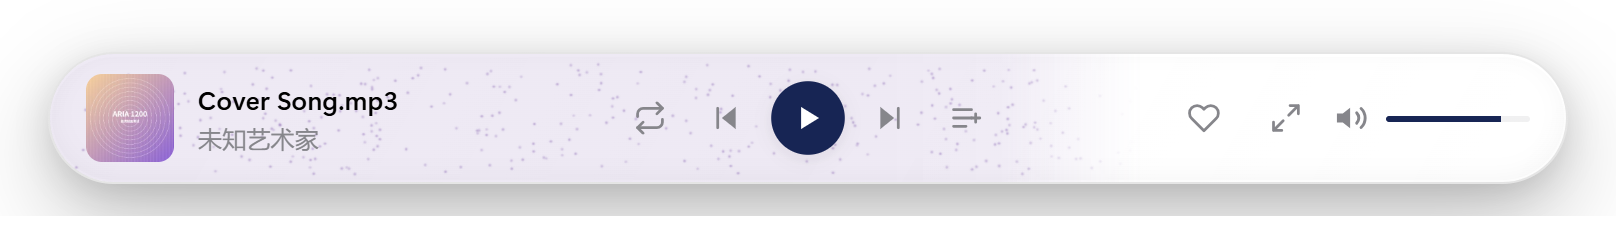
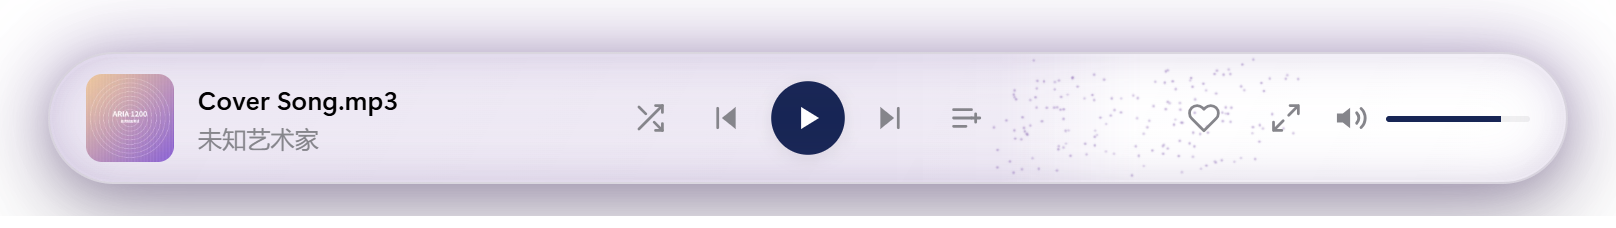
feat: 空白处可点可拖 + 光尘收成播放头一团 + 拖拽整条发光（光标改抓手）

Changed region(s): [[0.0309, 0.1228, 0.9592, 0.3684], [0.3713, 0.4605, 0.4332, 0.5833], [0.9592, 0.307, 0.9901, 0.3684]]

diff --git a/src/components/PlayerBar.vue b/src/components/PlayerBar.vue
@@ -1,5 +1,5 @@
 <script setup lang="ts">
-import { computed, nextTick, onMounted, ref, watch } from 'vue'
+import { computed, nextTick, onBeforeUnmount, onMounted, ref, watch } from 'vue'
 import AppIcon from './AppIcon.vue'
 import CoverImage from './CoverImage.vue'
 import ProgressSlider from './ProgressSlider.vue'
@@ -136,6 +136,15 @@ const localStyle = ref<PlayerStyle>(settings.playerStyle)
 const barEl = ref<HTMLElement | null>(null)
 let morphing = false
 
+/* 光尘团挂在播放头位置（--cp-x 是 px），所以需要真实内宽：
+   inset:0 的视觉层贴在边框内侧，内宽 = 页脚宽度 - 左右各 1px 边框 */
+const barWidth = ref(758)
+let barRO: ResizeObserver | null = null
+function measureBar() {
+  const w = (barEl.value?.getBoundingClientRect().width ?? 0) - 2
+  if (w > 0) barWidth.value = w
+}
+
 watch(
   () => settings.playerStyle,
   async (nv) => {
@@ -216,13 +225,26 @@ onMounted(() => {
     )
     .finished.catch(() => {})
 
+  // 光尘团要用真实内宽算播放头 px（--cp-x），窗口缩放与形态切换都要跟上
+  measureBar()
+  if (typeof ResizeObserver !== 'undefined' && barEl.value) {
+    barRO = new ResizeObserver(measureBar)
+    barRO.observe(barEl.value)
+  }
+  window.addEventListener('resize', measureBar)
 })
 
-/* ---------- 胶囊进度「封面色氛围光 + 光尘」：点击/拖拽 seek ----------
+onBeforeUnmount(() => {
+  barRO?.disconnect()
+  barRO = null
+  window.removeEventListener('resize', measureBar)
+})
+
+/* ---------- 胶囊进度「封面色氛围光 + 播放头光尘」：点击/拖拽 seek ----------
    已播区间 = 一层封面取色的氛围光（.pt-wash）＋ 一层极细的白色光尘
-   （.pt-dust × DUST_LAYERS，每层用一条 box-shadow 画出一整片散点，
-   480 颗只占 8 个合成图层）。两者共用一条 mask 收边（--cp-p 驱动），
-   悬停/拖拽只做 seek，不再有光带、光晕或换歌光扫。
+   （.pt-dust × DUST_LAYERS，每层用一条 box-shadow 画出一整片散点）。
+   氛围光被 --cp-p 的 mask 收在已播区间；光尘只在拖拽时出现，
+   整团挂在播放头位置（--cp-x）随指针移动。没有光带、光晕或换歌光扫。
    实现见下方 .capsule-particles / .pt-field / .pt-wash / .pt-dust 样式。 */
 
 const ringDragging = ref(false)
@@ -239,17 +261,17 @@ const displayPct = computed(() => (ringDragging.value ? dragPct.value : ringPct.
 /** 动画层的行内变量：进度驱动 mask 收边，封面色驱动氛围光与光尘颜色 */
 const cpStyle = computed(() => ({
   '--cp-p': String(displayPct.value),
-  '--fc': particleColor(0),
+  '--cp-x': `${(displayPct.value * barWidth.value).toFixed(1)}px`,
 }))
 
-/* ---------- 光尘：极小 + 极密 ----------
-   每层是一个 0×0 元素，靠一条 box-shadow 一次画出 DUST_PER_LAYER 颗
-   （颜色/模糊/扩散走主题令牌，主题切换自动跟随）；480 颗只占 8 个图层。
-   点位由下标哈希算出（不用 Math.random，观感固定可复现）；
-   每层有自己的漂移与呼吸相位，整体像一束光里的浮尘。 ---------- */
+/* ---------- 播放头光尘：极小 + 只在播放头附近自由浮动 ----------
+   每层是一个 1px 圆点，靠一条 box-shadow 一次画出 DUST_PER_LAYER 颗
+   （颜色/模糊/扩散走主题令牌，主题切换自动跟随）；整团挂在播放头
+   （.pt-dusts 用 --cp-x 平移），所以只在拖拽时围着手指/播放头活动。
+   点位由下标哈希算出（不用 Math.random，观感固定可复现）。 ---------- */
 const DUST_LAYERS = 8
-const DUST_PER_LAYER = 60
-const DUST_W = 750 /* 铺满胶囊内宽（758）留一点边 */
+const DUST_PER_LAYER = 20
+const DUST_SPAN = 72 /* 横向 ±72px：光是「播放头附近的一团」，不是整条铺满 */
 const DUST_TOP = 7
 const DUST_H = 52 /* 纵向 7~59px，避开上下边缘 */
 
@@ -274,15 +296,15 @@ const DUST: DustLayer[] = Array.from({ length: DUST_LAYERS }, (_, li) => {
   const dots = Array.from({ length: DUST_PER_LAYER }, (_, di) => {
     const seed = li * DUST_PER_LAYER + di
     return {
-      x: Number((dustRand(seed * 2) * DUST_W).toFixed(1)),
+      x: Number(((dustRand(seed * 2) - 0.5) * 2 * DUST_SPAN).toFixed(1)),
       y: Number((DUST_TOP + dustRand(seed * 2 + 1) * DUST_H).toFixed(1)),
     }
   })
   return {
-    // 定向流动：所有层都朝播放头方向（向右）走，快慢不同 → 读起来是「光里的浮尘在流」
-    dx: 42 + Math.round(dustRand(li * 7 + 3) * 30), // 42~72px，单向
-    dy: Math.round((dustRand(li * 7 + 5) - 0.5) * 8), // ±4px 轻微起伏
-    dur: 9000 + Math.round(dustRand(li * 7 + 1) * 9000), // 9~18s 走完一段
+    // 自由浮动：来回摆（alternate），幅度小、周期错开 → 像浮在光里的一团尘
+    dx: Math.round((dustRand(li * 7 + 3) - 0.5) * 2 * 16), // ±16px
+    dy: Math.round((dustRand(li * 7 + 5) - 0.5) * 2 * 7), // ±7px
+    dur: 7000 + Math.round(dustRand(li * 7 + 1) * 7000), // 7~14s 一个来回
     del: -Math.round(dustRand(li * 7 + 2) * 12000), // 负延迟错峰
     twk: 6000 + Math.round(dustRand(li * 7 + 4) * 6000), // 6~12s 呼吸
     dots,
@@ -330,45 +352,37 @@ function pctFromClientX(cx: number): number {
   return Math.min(1, Math.max(0, (cx - r.left) / r.width))
 }
 
-/** 拖拽门槛：按到顶边只算「预备」，横向移动超过这个距离才真的进入拖拽。
-    之前是「按下即跳到点按处」，去点按钮/封面时蹭到顶边就整条跳进度，很容易误触。 */
-const DRAG_THRESHOLD = 4
-let dragArmed = false
-let dragStartX = 0
+/** 只有「播放条空白处」算拖拽/点击区域：控件（按钮、音量条、封面、队列面板）
+    自己处理指针，滚过它们不会改进度——这样点击和拖拽都能落在空白区上。 */
+function isBlankArea(t: EventTarget | null): boolean {
+  const el = t as HTMLElement | null
+  if (!el || typeof el.closest !== 'function') return false
+  return !el.closest('button, input, a, .cover, .queue-panel, .pslider')
+}
 
-function onRingPointerDown(e: PointerEvent) {
+function onBarPointerDown(e: PointerEvent) {
   const dur = player.duration || player.current?.durationSec || 0
   if (dur <= 0) return
-  dragArmed = true
-  dragStartX = e.clientX
+  if (!isBlankArea(e.target)) return // 控件自己处理，不抢指针
+  ringDragging.value = true
   // 合成指针（自动化测试）没有活动 pointer id，capture 失败不应阻断 seek
   try {
-    progressLineEl.value?.setPointerCapture(e.pointerId)
+    barEl.value?.setPointerCapture(e.pointerId)
   } catch {
     /* 忽略 */
   }
-  // 按下本身不 seek：等确认是拖拽（见 onRingPointerMove）
+  dragPct.value = pctFromClientX(e.clientX)
+  player.seek(dragPct.value * dur) // 点空白处 = 跳到该位置
 }
 
 function onRingPointerMove(e: PointerEvent) {
-  if (!dragArmed) return
-  if (!ringDragging.value) {
-    // 还没确认拖拽：位移不够就什么都不做（点一下顶边不会改进度）
-    if (Math.abs(e.clientX - dragStartX) < DRAG_THRESHOLD) return
-    ringDragging.value = true
-    dragPct.value = pctFromClientX(e.clientX)
-    const dur = player.duration || player.current?.durationSec || 0
-    if (dur > 0) player.seek(dragPct.value * dur) // 确认拖拽的第一下落位
-    return
-  }
+  if (!ringDragging.value) return
   // 拖动中只推进视觉进度，不反复 seek（频繁跳音频是卡顿感来源）
   dragPct.value = pctFromClientX(e.clientX)
 }
 
 function onRingPointerUp() {
-  if (!dragArmed) return
-  dragArmed = false
-  if (!ringDragging.value) return // 只是点了一下顶边：不动进度
+  if (!ringDragging.value) return
   const dur = player.duration || player.current?.durationSec || 0
   if (dur > 0) player.seek(dragPct.value * dur) // 松手落到最终位置
   ringDragging.value = false
@@ -380,6 +394,8 @@ function onRingPointerUp() {
     ref="barEl"
     class="player-bar glass"
     :class="{ capsule: localStyle === 'capsule', 'material-liquid': settings.barMaterial === 'liquid', 'material-frosted': settings.barMaterial === 'frosted', 'ring-dragging': ringDragging, 'bar-paused': !player.playing }"
+    :style="{ '--fc': particleColor(0) }"
+    @pointerdown="onBarPointerDown"
     @pointermove="onRingPointerMove"
     @pointerup="onRingPointerUp"
     @pointercancel="onRingPointerUp"
@@ -397,31 +413,30 @@ function onRingPointerUp() {
       <div class="pt-field">
         <!-- 氛围光：封面色薄雾铺在已播侧，没有任何线条 -->
         <div class="pt-wash" />
-        <!-- 光尘：只在拖拽时浮现（.pt-dusts 由 .ring-dragging 淡入），
-             每层一个 1px 圆点 + 一条 box-shadow，画满整层散点 -->
-        <div class="pt-dusts">
-          <div
-            v-for="(l, i) in DUST"
-            :key="i"
-            class="pt-dust"
-            :style="{
-              '--dx': `${l.dx}px`,
-              '--dy': `${l.dy}px`,
-              '--dur': `${l.dur}ms`,
-              '--del': `${l.del}ms`,
-              '--twk': `${l.twk}ms`,
-              boxShadow: dustShadow(l),
-            }"
-          />
-        </div>
+      </div>
+      <!-- 光尘：只在拖拽时浮现（.pt-dusts 由 .ring-dragging 淡入），整团挂在
+           播放头位置（--cp-x）随指针走，每层一个 1px 圆点 + 一条 box-shadow -->
+      <div class="pt-dusts">
+        <div
+          v-for="(l, i) in DUST"
+          :key="i"
+          class="pt-dust"
+          :style="{
+            '--dx': `${l.dx}px`,
+            '--dy': `${l.dy}px`,
+            '--dur': `${l.dur}ms`,
+            '--del': `${l.del}ms`,
+            '--twk': `${l.twk}ms`,
+            boxShadow: dustShadow(l),
+          }"
+        />
       </div>
     </div>
-    <!-- 拖拽热区：仍只占顶部 18px，避开封面与按钮（见下方 .capsule-progress 注释） -->
+    <!-- 顶部 12px 细带：只提供「抓手」光标提示（点/拖已由整条空白处接管） -->
     <div
       v-if="localStyle === 'capsule'"
       ref="progressLineEl"
       class="capsule-progress"
-      @pointerdown="onRingPointerDown"
     />
     <!-- 左：曲目信息 -->
     <div class="track">
@@ -659,6 +674,20 @@ function onRingPointerUp() {
   gap: 14px;
   padding: 0 18px;
   border-radius: 999px;
+  /* 空白处可点可拖：给「抓手」，控件自己再覆盖成 pointer */
+  cursor: grab;
+  user-select: none;
+}
+
+.player-bar.capsule button,
+.player-bar.capsule input,
+.player-bar.capsule .cover.clickable {
+  cursor: pointer;
+}
+
+/* 拖拽中：整条切成「抓住」的手型，控件此时也不响应指针 */
+.player-bar.capsule.ring-dragging {
+  cursor: grabbing;
 }
 
 /* 胶囊 + 液态玻璃：全边框 + 更强立体投影（折射感↑：边框/顶缘高光更亮，玻璃更「厚」） */
@@ -715,12 +744,35 @@ function onRingPointerUp() {
   border-radius: 999px;
   overflow: hidden; /* 氛围光与光尘都被裁进胶囊轮廓里 */
   pointer-events: none; /* 纯视觉层：命中一律交给下方 18px 热区 */
-  /* --fc 由行内写入（封面明亮色），这里派生出氛围光/光尘共用的颜色：
-     深色主题往白里提亮、浅色主题朝黑压一档（见主题令牌） */
-  --fc-mix: color-mix(in srgb, var(--fc) var(--dust-mix), var(--dust-tint));
   /* --cp-p 已在 main.css 用 @property 注册成 <number>，
      故这里的过渡能把 timeupdate（约 4Hz）的跳变抹成连续推移 */
   transition: --cp-p 160ms linear;
+}
+
+/* --fc 由页脚行内写入（封面明亮色），这里派生出氛围光/光尘/拖拽辉光共用的颜色：
+   深色主题往白里提亮、浅色主题朝黑压一档（见主题令牌）。
+   定义在页脚上，子元素与页脚自身的 ::after 辉光都能继承。 */
+.player-bar {
+  --fc-mix: color-mix(in srgb, var(--fc) var(--dust-mix), var(--dust-tint));
+}
+
+/* 拖拽时整条微微发光：外圈一层封面色辉光 + 内侧一层同色呼吸（不碰材质的 box-shadow） */
+.player-bar.capsule::after {
+  content: '';
+  position: absolute;
+  inset: -1px;
+  border-radius: 999px;
+  pointer-events: none;
+  z-index: 1;
+  box-shadow:
+    0 0 38px color-mix(in srgb, var(--fc-mix) 55%, transparent),
+    inset 0 0 26px color-mix(in srgb, var(--fc-mix) 26%, transparent);
+  opacity: 0;
+  transition: opacity var(--dur-med) var(--ease-out);
+}
+
+.player-bar.capsule.ring-dragging::after {
+  opacity: 1;
 }
 
 .player-bar.ring-dragging .capsule-particles {
@@ -771,10 +823,17 @@ function onRingPointerUp() {
    暂停即停、reduced-motion 即静（见下方两条规则）。 */
 .capsule-particles .pt-dusts {
   position: absolute;
-  inset: 0;
+  top: 0;
+  bottom: 0;
+  left: 0;
+  width: 0;
+  /* 整团挂在播放头位置：拖拽时跟着指针走（160ms 线性跟随，略带惯性） */
+  translate: var(--cp-x) 0;
+  transition:
+    translate 160ms linear,
+    opacity 200ms var(--ease-out);
   /* 光尘只在拖拽时出现：常态完全隐去，拖拽淡入、松手淡出 */
   opacity: 0;
-  transition: opacity 200ms var(--ease-out);
 }
 
 .player-bar.ring-dragging .capsule-particles .pt-dusts {
@@ -793,15 +852,14 @@ function onRingPointerUp() {
   background: transparent;
   opacity: var(--dust-opacity);
   will-change: transform, opacity;
-  /* 流动 + 呼吸：流动是单向 linear 循环（层与层速度不同），呼吸负责明暗闪动。
-     单向循环回到起点时是「整层散点集体回跳」，但每颗只有 ~2px 且数量极多，
-     视线抓不住单颗，读起来就是连续流动（这也是不用逐颗 DOM 的代价很小的地方） */
+  /* 自由浮动 + 呼吸：每层各自 ±16px/±7px 来回摆（alternate，周期 7~14s 错开），
+     呼吸负责明暗闪动 —— 读起来是「播放头附近浮着的一团光尘」 */
   animation:
-    dust-flow var(--dur) linear var(--del) infinite,
+    dust-float var(--dur) ease-in-out var(--del) infinite alternate,
     dust-twinkle var(--twk) ease-in-out var(--del) infinite;
 }
 
-@keyframes dust-flow {
+@keyframes dust-float {
   from {
     transform: translate3d(0, 0, 0);
   }
@@ -837,17 +895,15 @@ function onRingPointerUp() {
   }
 }
 
-/* 拖拽热区：顶部 12px 的横带 —— 再往下就压到播放键（40px 圆钮从 y=13 起），
-   点按钮时蹭到热区就会开始拖进度，是误触的主要来源。
-   防误触靠的是 onRingPointerDown 的「先预备、移动够 4px 才算拖拽」：
-   按下不 seek，点一下不会跳进度。本层无内容无底色，只负责命中。 */
+/* 顶部 12px 细带：只提供「抓手」光标提示（点/拖已由整条空白处接管）。
+   压在按钮上会挡住点击，所以只占顶部 12px —— 播放键从 y=13 起。 */
 .capsule-progress {
   position: absolute;
   top: 0;
   left: 0;
   right: 0;
   height: 12px;
-  cursor: ew-resize;
+  cursor: grab;
   touch-action: none;
 }
 

diff --git a/docs/04-开发步骤.md b/docs/04-开发步骤.md
@@ -79,7 +79,7 @@
 - [x] 主题色预设色板换新（**会话 49**）：旧 7 浊色换现代鲜亮 8 色——靛蓝 #5865f2 / 天青 #0284c7 / 翡翠 #0ca678 / 琥珀 #d97706 / 珊瑚 #ef5350 / 玫红 #e64980 / 紫罗兰 #8b5cf6 / 石墨 #64748b（简单亮度全部 0.42~0.52 → accent-text 统一白字且离阈值 ≥0.10）；「默认海军蓝」与自定义取色器保留，布局无需改（CDP 断言点击生效/回默认）
 
 - [x] 九项反馈改造（**会话 45**）：①修歌词页切歌穿模（换带 watcher 加 lyricsOpen 守卫）②修侧栏点击热区只有文字（button 不自动撑满，nav-item 补 width:100%）+ 悬停/选中强调分层 + 长按吞点击修复（仅真实拖拽位移才抑制 click）③修歌单返回动画结尾（网格去 v-show 常驻 + closing 防重入）④排行榜表头移到列表区上方并与列对齐 ⑤添加歌曲重构 900×640 大号二级弹层 ⑥侧栏歌单封面 28→36px/行高 48px ⑦新 AppSwitch 共享开关统一设置页与弹层动效 ⑧歌单去拖拽改自定义排序（自定义顺序/歌名/艺术家/专辑/播放次数/时长，kv 持久化）⑨歌单详情头部对齐专辑详情页（渐变底+呼吸光斑+噪点+176px 封面+统计行）
-- [x] 胶囊播放条进度改「封面色氛围光 + 流动光尘」（**会话 50**，同日多轮迭代；中途按用户要求试过鸿蒙 7 官网「沉浸光感」的光带/光扫/光晕引力，最终全部拆掉）：进度不再是沿外框的弧线，改为「已播区间被照亮，拖拽时另有一层流动光尘」——氛围光改用**封面取色**（`palette.extractBrightColors` 新增 `lift` 选项保留原始饱和色；`paletteCache` 改为一次采样同产 `base`+`bright`，并新增 `brightColors()`（并发共享同一 Promise、4s 超时兜底））；光尘 **480 颗**（8 层 × 60 颗），每层只用**一个 1px 圆点 + 一条 `box-shadow`** 画出整层散点，所以「极多又极小」只占 8 个合成图层（点位由下标哈希算出，无随机；每层单向 `linear` 循环 9~18s 走 42~72px 朝播放头流动，层间速度不同读作「流动」，另叠 `opacity` 呼吸）；**光尘只在拖拽时出现**（`.pt-dusts` 常态 `opacity:0`，`ring-dragging` 淡入 200ms、松手淡出，常态只剩氛围光）；深色＝白色微光、浅色＝封面色微尘（白点在白玻璃上看不见），单颗直径 ≈ 1px + 2×spread + 2×blur ≈ 2px；收边由 `.pt-field` 的 mask 固定 68px 软收尾；**没有光带、没有指针光晕、没有换歌光扫**；拖拽防误触：顶部 12px 横带为热区（再往下会压到播放键）＋ 按下只记「预备」、横向位移 > 4px 才算拖拽（点一下不改进度）；暂停即静止且弱一档、`prefers-reduced-motion` 关流动与呼吸、整体受「封面氛围光」开关管辖（CDP 全绿：8 层/480 颗/旧元素已彻底移除/常态光尘 opacity 0 而拖拽中为 1、松手回到 0/流动动画生效/点按不跳进度/条中部拖动不触发/热区下缘可正常拖到 0.72/白尘取色与换歌换色/mask 停靠点/wash/暂停与降级/标准条无特效层/控制台 0 报错）
+- [x] 胶囊播放条进度改「封面色氛围光 + 播放头光尘」（**会话 50**，同日多轮迭代；中途按用户要求试过鸿蒙 7 官网「沉浸光感」的光带/光扫/光晕引力，最终全部拆掉）：进度不再是沿外框的弧线，改为「常态一层封面色氛围光；拖拽时播放头附近浮着一团光尘、整条微微发光」——氛围光改用**封面取色**（`palette.extractBrightColors` 新增 `lift` 选项保留原始饱和色；`paletteCache` 改为一次采样同产 `base`+`bright`，并新增 `brightColors()`（并发共享同一 Promise、4s 超时兜底））；光尘 **160 颗**（8 层 × 20 颗），每层只用**一个 1px 圆点 + 一条 `box-shadow`** 画出整层散点，整团挂在播放头（`.pt-dusts` 用 `--cp-x` 平移、只铺 ±72px）并自由浮动（±16px/±7px、`alternate`、周期 7~14s 错开）；深色＝白色微光、浅色＝封面色微尘（白点在白玻璃上看不见），单颗直径 ≈ 1px + 2×spread + 2×blur ≈ 2px；收边由 `.pt-field` 的 mask 固定 68px 软收尾；**没有光带、没有指针光晕、没有换歌光扫**；**点/拖落在播放条空白处**（`isBlankArea()` 排除按钮/输入/封面/队列面板：点一下即 seek、横移即拖拽）；**拖拽时整条微微发光**（页脚 `::after` 封面色外辉光 + 内侧呼吸）；光标空白处 `grab`、拖拽中 `grabbing`；暂停即静止且弱一档、`prefers-reduced-motion` 关浮动与呼吸、整体受「封面氛围光」开关管辖（CDP 全绿：8 层/160 颗且团心与 `--cp-x` 严丝合缝/旧元素已彻底移除/常态光尘与辉光 opacity 0、拖拽中为 1、松手回 0/点空白处真的跳过去/点控件不 seek/白尘取色与换歌换色/mask 停靠点/wash/暂停与降级/标准条无特效层/控制台 0 报错）
 
 剩余由用户实测的事项：
 - 真实音乐文件夹选择器流程（自动化环境无法操作系统对话框）

diff --git a/devlog/2026-09-11.md b/devlog/2026-09-11.md
@@ -100,6 +100,17 @@
 
 **验证补充**：常态 `.pt-dusts` opacity `0`、拖拽中 `1`、松手 320ms 后回到 `0`；点一下热区 `currentTime` 不变（`noSeek: true`）；条中部（y+34）横向拖动不进入拖拽；从热区**下缘**（y+10，不再是细边框）按下横移能正常拖到 0.72。
 
+### 3.3 再追加三笔：空白处可点可拖、光尘收成播放头附近的一团、拖拽整条发光
+
+用户反馈：①希望能在播放条**空白处**点击或拖拽；②光尘只在拖拽时出现且只在**播放头附近自由移动**；③增加整体光感，拖拽时**播放条微微发光**。
+
+- **交互面从「顶部细带」扩到「整条空白处」**：`pointerdown` 挂到页脚上，配 `isBlankArea()`（排除 `button / input / a / .cover / .queue-panel / .pslider`，控件自己处理指针）。空白处按下即跳到该点（点击 seek），继续横移即拖拽；拖拽中仍只推进视觉、松手落位。上一轮的 4px 位移门槛随之撤掉——它会吃掉「点一下也 seek」这个需求，而误触风险已经由「只在空白处生效」解决。顶部 12px 细带保留，只作为抓手光标的提示层。
+- **光尘收成播放头附近的一团**：点位从「铺满 750×52px（480 颗）」改成「±72px × 52px（8 层 × 20 颗 = 160 颗）」，整团挂在 `.pt-dusts` 上、用 `--cp-x` 平移（160ms 线性跟随，带一点惯性感）；因为不再是满条，也就不需要进度 mask 约束，`.pt-dusts` 从 `.pt-field` 里移出来做兄弟节点。运动同时从「单向流动」改回**自由浮动**（±16px/±7px、`alternate`、周期 7~14s 错开）——小团里单向循环的回跳会露馅，来回摆才像悬浮的一团尘。
+- **拖拽时整条微微发光**：页脚加 `::after`（`inset:-1px` / 圆角与胶囊一致 / `pointer-events:none` / `z-index:1`），拖拽时 `opacity 0→1`，内容是「外圈 `0 0 38px` 封面色 55% 辉光 + 内侧 `inset 0 0 26px` 同色 26% 呼吸」。用伪元素而不是改材质的 `box-shadow`，是为了不覆盖 `.material-liquid` / `.material-frosted` 那两套材质阴影。为此把 `--fc-mix`（封面色派生色）从 `.capsule-particles` 提到 `.player-bar` 上，页脚自身的伪元素与所有子元素都能继承。
+- **光标**：用户明确不要双向箭头 —— 空白处与顶部细带改「抓手」`grab`，拖拽中整条 `grabbing`；控件显式 `cursor: pointer`。
+
+**验证补充**：常态 `.pt-dusts` opacity `0`、`::after` 辉光 `0`、光标 `grab`；点空白处（x=70%）`currentTime` 0.88 → 1.46（真的跳过去）；点模式按钮 `currentTime` 0.88 → 0.88（`noSeek: true`，控件不 seek）；拖拽中 `--cp-x` = 546 而光尘团 `translateX` = 546（严丝合缝挂在播放头上）、辉光 `1`、光标 `grabbing`；松手后光尘与辉光都回 `0`；光尘 160 颗、`dust-float` 生效。
+
 ## 遇到的问题
 
 1. **光层盖在文字上**：`.capsule-glow` 若用默认 `z-index:auto`，绝对定位层会画在普通流内容之上。改用 `z-index:-1`——页脚已经是层叠上下文（`position:absolute` + `z-index:6`），负值正好落在「玻璃底 → 光层 → 内容」的正确顺序，且不必给 `.track/.controls/.aux` 加 `position`（避免改动队列面板的定位上下文）。

diff --git a/docs/03-设计规范.md b/docs/03-设计规范.md
@@ -214,7 +214,7 @@
 - 小封面→歌词页大封面飞入（FLIP）：交接帧真实封面**立即不透明**并藏于克隆之下，仅克隆淡出；克隆带 `object-fit:cover` 与真实封面一致，避免两者同时半透明让背景透出（闪一下）或非正方形封面拉伸裁切不一致
 - 图片卡片（专辑/艺术家网格）：当前播放的卡片在封面外圈显示**缓慢旋转的强调色光环**（conic 高光 ring，`--accent`，`cover-spin` 3.2s linear），标题转 `--accent`——播放态状态指示；悬停仅上浮 + 封面轻放大 + 扫光（`transform` 化、`@media (hover:hover) and (pointer:fine)` 门控）；均含 `prefers-reduced-motion` 精简
 - 图片卡片→详情页共享元素过渡（FLIP）：点击封面从**点击点**放大飞向详情头图（`transform-origin` 跟随点击点并补偿 translate，曲线 `cubic-bezier(0.32,0.72,0,1)`，~540ms），落定后内容错峰浮现（`revealed`，40/80/120ms stagger），返回轻淡出；通用 `services/pageTransition.ts` 供专辑/艺术家/歌单复用
-- 胶囊进度的「光尘」与「拖拽」两个行为（`PlayerBar`）：**光尘只在拖拽时出现**＝`.pt-dusts` 常态 `opacity:0`、`.ring-dragging` 时淡入（200ms）、松手淡出，所以常态只剩封面色氛围光；出现时**流动**＝每层单向 `linear` 循环（9~18s 走 42~72px、方向朝播放头），层间速度不同读作「光里的浮尘在流」，再叠一层 `opacity` 呼吸（单向循环回跳时整层散点集体回位，但单颗仅 ~2px 且数量极多、视线抓不住单颗，观感仍是连续流动）。**拖拽**＝顶部 12px 横带为热区（再往下会压到播放键，圆钮从 y=13 起）；按下只记「预备」不 seek，横向位移超过 `DRAG_THRESHOLD = 4px` 才真正进入拖拽并落位，之后 `setPointerCapture` 让指针离开热区也照常跟手——即「点一下不改进度、横向拖一下才 seek」，光标 `ew-resize`
+- 胶囊进度的「光尘 / 拖拽 / 发光」三个行为（`PlayerBar`）：**光尘只在拖拽时出现**＝`.pt-dusts` 常态 `opacity:0`、`.ring-dragging` 时淡入（200ms）、松手淡出，常态只剩封面色氛围光；而且**整团挂在播放头位置**（`.pt-dusts` 用 `--cp-x` 平移、只铺 ±72px），只围着播放头/手指活动，出现时每层以 ±16px/±7px 来回自由浮动（`alternate`，周期 7~14s 错开）＋ `opacity` 呼吸（8 层 × 20 颗 = 160 颗）。**点/拖落在播放条空白处**＝`pointerdown` 挂在页脚上，`isBlankArea()` 排除按钮 / 输入 / 封面 / 队列面板（控件自己处理指针）；空白处按下即跳到该点（点击 seek），继续横移即拖拽，拖拽中只推进视觉、松手落位（不反复 seek）。**拖拽时整条微微发光**＝页脚 `::after` 叠一层封面色外辉光（`0 0 38px` 55%）＋ 内侧同色呼吸（`inset 0 0 26px` 26%），不碰材质本身的 `box-shadow`。光标：空白处与顶部细带 `grab`、拖拽中整条 `grabbing`
 - 滚动条：8px，滑块 `--scrollbar`，悬停 `--scrollbar-hover`
 
 ### 7.2 歌词页 —— 唯一例外域
